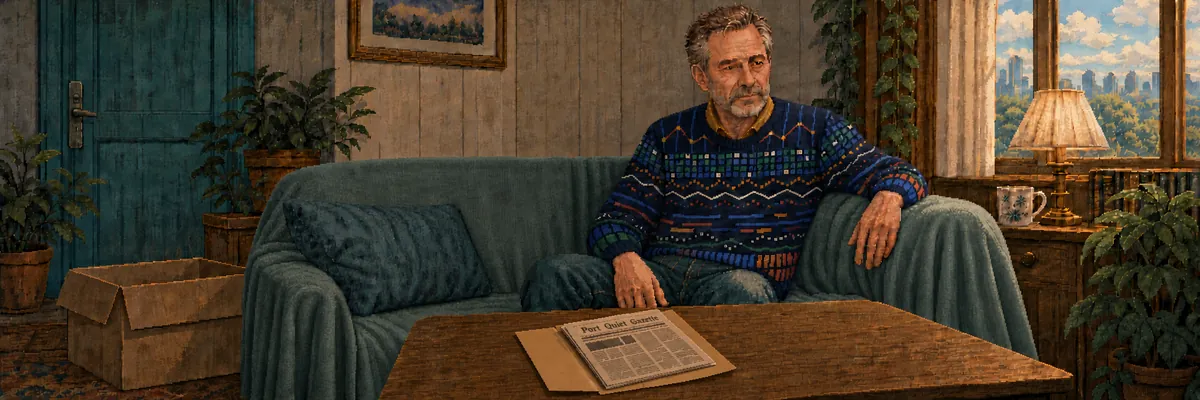
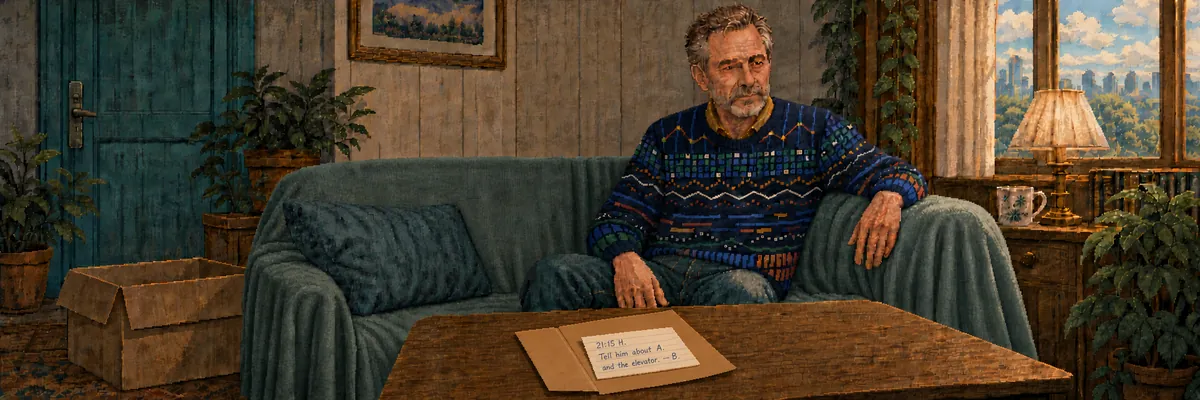
game, web: Clement's folder now holds a scrap in Bertram's handwriting ("21:15 H. Tell him about A. and the elevator. — B.") instead of the Revision 114 clipping, and scene-clement-home is redrawn to match
The note is true to the records (Bertram's reports about Agnes and the elevator, Hale's 21:15 1:1 with him) and points at Bertram without being settled by any clip; the motive chain stays in the handout, the personnel surname and the Revision 114 log.

Changed region(s): [[0.4625, 0.75, 0.6167, 0.99]]

diff --git a/web/SPOILERS-content.js b/web/SPOILERS-content.js
@@ -109,7 +109,7 @@ window.DJ_CONTENT = {
     },
     {
      "title": "Clement at home",
-     "body": "> 06:40 · Port Quiet · Clement's flat\n[Clement's waking self sits on the same chair. No lanyard, and he's still in his Christmas sweater. He holds an open cardboard folder at chest height, as if he'd been reading it. The camera is handheld: you're the investigator.]\nYou: Clement? You sleepwalk for Kipsake.\nClement: I don't remember work. That's rather the point.\n[Close-up: the open folder, lying flat, with one thing inside.]\n[A clipping from the local paper, the Port Quiet Gazette, about Procedure Revision 114.]\nYou: Tell me about the folder.\nClement: Things I keep.\n[He closes the folder and holds it against his chest.]",
+     "body": "> 06:40 · Port Quiet · Clement's flat\n[Clement's waking self sits on the same chair. No lanyard, and he's still in his Christmas sweater. He holds an open cardboard folder at chest height, as if he'd been reading it. The camera is handheld: you're the investigator.]\nYou: Clement? You sleepwalk for Kipsake.\nClement: I don't remember work. That's rather the point.\n[Close-up: the open folder, lying flat, with one thing inside.]\n[A scrap of paper torn from a Kipsake notepad, in rounded handwriting.]\n> 21:15 H. Tell him about A. and the elevator. — B.\nYou: Tell me about the folder.\nClement: Things I keep.\n[He closes the folder and holds it against his chest.]",
      "meta": {
       "option": "Clement at home",
       "note": "Clement's waking self",
@@ -487,10 +487,10 @@ window.DJ_CONTENT = {
       "body": "Clement's waking self, at home. No lanyard, and he's still in his Christmas sweater."
      },
      {
-      "label": "The clipping",
-      "x": 53,
+      "label": "The note",
+      "x": 52,
       "y": 86,
-      "body": "A clipping from the local paper, the Port Quiet Gazette, about Procedure Revision 114.\n> PORT QUIET GAZETTE\n> … Procedure Revision 114 …"
+      "body": "A scrap of paper torn from a Kipsake notepad, in rounded handwriting.\n> 21:15 H. Tell him about A. and the elevator. — B."
      }
     ],
     "where": "Port Quiet · Clement's flat · 06:40",
@@ -622,5 +622,5 @@ window.DJ_CONTENT = {
   ]
  },
  "toCome": [],
[2 lines of base64/hex data omitted]
 };

diff --git a/game/test_SPOILERS_game.py b/game/test_SPOILERS_game.py
@@ -40,6 +40,7 @@ SENTINELS = [
     "COCOA HOUR · BREAK ROOM 2 · SEATING",
     "4 · Clement",
     "Tell me about the folder",
+    "Tell him about A. and the elevator",
     "cycle timer: started 03:01:47",
     "Clement killed Mr. Hale",
     "It took a human to know which question to ask",
@@ -244,6 +245,12 @@ class ClueRedesignTest(unittest.TestCase):
         self.assertIn("I told Mr. Hale about Agnes's notes", self.card("Bertram").body)
         self.assertNotIn("And who to stop", CONTENT.reveal.cards[0].body + self.card("Agnes").body)
         self.assertIn("one thing inside", self.card("Clement at home").body)
+        # the folder's one item points at Bertram: a scrap in his handwriting, true to the records and the 21:15 1:1
+        folder = self.card("Clement at home").body
+        self.assertIn("21:15 H. Tell him about A. and the elevator. — B.", folder)
+        self.assertNotIn("Procedure Revision 114", folder)
+        self.assertIn("supervisor-feedback submitted_by=bertram to=hale", telemetry("records.log"))
+        self.assertIn('calendar owner=hale title="1:1 Bertram"', telemetry("records.log"))
         self.assertIn("Tell me about the folder.", self.card("Clement at home").body)
         self.assertIn("Port Quiet Gazette · Letters", CONTENT.outside_world.body)
         for title in ("T-A · Agnes · 03:30", "T-B · Bertram · 03:40"):

diff --git a/web/test_web.py b/web/test_web.py
@@ -292,7 +292,8 @@ class SceneTextTest(unittest.TestCase):
         self.assertIn("The letter", self.hotspots("Bertram at home"))
         self.assertIn("The receipt", self.hotspots("Bertram at home"))
         folder = self.hotspots("Clement at home")
-        self.assertEqual(sorted(folder), ["Clement", "The clipping"])
+        self.assertEqual(sorted(folder), ["Clement", "The note"])
+        self.assertIn("— B.", folder["The note"])
 
     def test_the_redrawn_pictures_are_there(self):
         for name in ("scene-break-room", "scene-power-cut", "portrait-agnes", "portrait-bertram", "portrait-agnes-push",

diff --git a/game/SPOILERS-content/SPOILERS-reveal.md b/game/SPOILERS-content/SPOILERS-reveal.md
@@ -62,8 +62,8 @@ for: all
 - **The slip.** Clips: "Someone was screaming by the elevator" (Agnes and Bertram each say "shouting by the elevator"), and "Peggy" crossed out on his written statement. Records: the screaming at the elevator was only in the dark, and "Peggy" was a name shouted only in the dark (Agnes's preferred name in the personnel file).
 - **The sweater.** Clips: the yarn threads in Hale's closed hand (on the Incident File every player reads) and in Bertram's hand at home, in navy, blue, red, orange, green and white. All three clerks wear a colourful knitted Christmas sweater on camera, and each shares several of the yarn's colours: Agnes's is green, Bertram's blue, Clement's navy. Records: the Cocoa Hour festive-wear register lists each person's sweater and its exact colours at the party door, and only Clement's has all six (Agnes's has no navy or blue, Bertram's no navy; Hale wore a plain charcoal suit). So the threads came from Clement. The threads never appear in the records.
 - **The napkin and the seat.** Clips: Peggy finds a napkin marked "4" in her pocket; the Break Room camera shows a napkin and the cable on the chair by the speaker, and a seating chart on the wall puts Clement in seat 4, the chair by the speaker. Records: the Break Room 2 seat sensors, which name nobody, show seat 4 empty from 03:00:52 until 03:06:50, so whoever sat there got up before the lights went and was away through the whole outage. Clement said he was "sitting down" when the lights went, and his badge lay still on the chair, which looks like an alibi. The chart makes the empty seat his. The napkin and the chart never appear in the records.
-- **The decoys.** Agnes's flat holds a sticky note ("HE HAS TO STOP. THE ELEVATOR.") and the evacuation plan, her plan to bring Peggy to the elevator; the records hold her detentions, her unsent draft and the notes in the phone panel. Bertram's flat holds a letter signed "Discretion appreciated. R. Hale" and a torn waffle-iron receipt; the records hold his reports on Agnes to Hale and the reward he was issued. The handout's Letters item, a parent whose child comes home from Kipsake with sore hands and asks where an elevator goes, matches Agnes's Hush Room note. Each of them looks like a killer from one side only.
-- **The motive.** Clips: June Whitlow's obituary says she is survived by her brother, and Clement's folder holds the Procedure Revision 114 clipping. Records: the personnel file gives Clement's surname, Whitlow; R. Hale approved Procedure Revision 114, and it was withdrawn after a March death. The records never mention June or Clement's family, and nothing in the clips says whose surname is Whitlow.
+- **The decoys.** Clement's folder holds a scrap of notepaper in Bertram's handwriting, "21:15 H. Tell him about A. and the elevator. — B.": a real thing Clement kept, because Bertram did tell Hale about Agnes and the elevator (the records hold his reports, `records.log:24-28`, and Hale's 21:15 1:1 with him) and then told the floor chat where Hale would be at the Cocoa Hour. It points at Bertram and can't be settled from the clips. Agnes's flat holds a sticky note ("HE HAS TO STOP. THE ELEVATOR.") and the evacuation plan, her plan to bring Peggy to the elevator; the records hold her detentions, her unsent draft and the notes in the phone panel. Bertram's flat holds a letter signed "Discretion appreciated. R. Hale" and a torn waffle-iron receipt; the records hold his reports on Agnes to Hale and the reward he was issued. The handout's Letters item, a parent whose child comes home from Kipsake with sore hands and asks where an elevator goes, matches Agnes's Hush Room note. Each of them looks like a killer from one side only.
+- **The motive.** Clips: June Whitlow's obituary says she is survived by her brother, and the handout's Local item says what Procedure Revision 114 was. Records: the personnel file gives Clement's surname, Whitlow; R. Hale approved Procedure Revision 114, and it was withdrawn after a March death. The records never mention June or Clement's family, and nothing in the clips says whose surname is Whitlow.
 - **Supply Room B.** Clips: the waffle iron, the Golden Waffle certificate and the iron's cycle timer, started at 03:01:47. Records: Bertram's badge went in at 03:01:45 and the outlet logged the load at 03:01:58, so he was cooking when the breaker tripped.
 
 > The AI had the records and you had the clips. It took both to name the killer.

diff --git a/game/SPOILERS-content/scene-art.md b/game/SPOILERS-content/scene-art.md
@@ -331,7 +331,7 @@ A torn waffle-iron receipt.
 
 ## Clement at home
 card: Clement at home
-source: bdfa238b
+source: a20e27d1
 image: scene-clement-home
 where: Port Quiet · Clement's flat · 06:40
 headline: Clement
@@ -346,11 +346,10 @@ Clement: Things I keep.
 at: 61, 39
 Clement's waking self, at home. No lanyard, and he's still in his Christmas sweater.
 
-## The clipping
-at: 53, 86
-A clipping from the local paper, the Port Quiet Gazette, about Procedure Revision 114.
-> PORT QUIET GAZETTE
-> … Procedure Revision 114 …
+## The note
+at: 52, 86
+A scrap of paper torn from a Kipsake notepad, in rounded handwriting.
+> 21:15 H. Tell him about A. and the elevator. — B.
 
 
 ## Agnes pushed

diff --git a/game/SPOILERS-content/decision-2-outside-world.md b/game/SPOILERS-content/decision-2-outside-world.md
@@ -47,7 +47,8 @@ aliases: clement, c
 You: Clement? You sleepwalk for Kipsake.
 Clement: I don't remember work. That's rather the point.
 [Close-up: the open folder, lying flat, with one thing inside.]
-[A clipping from the local paper, the Port Quiet Gazette, about Procedure Revision 114.]
+[A scrap of paper torn from a Kipsake notepad, in rounded handwriting.]
+> 21:15 H. Tell him about A. and the elevator. — B.
 You: Tell me about the folder.
 Clement: Things I keep.
 [He closes the folder and holds it against his chest.]
